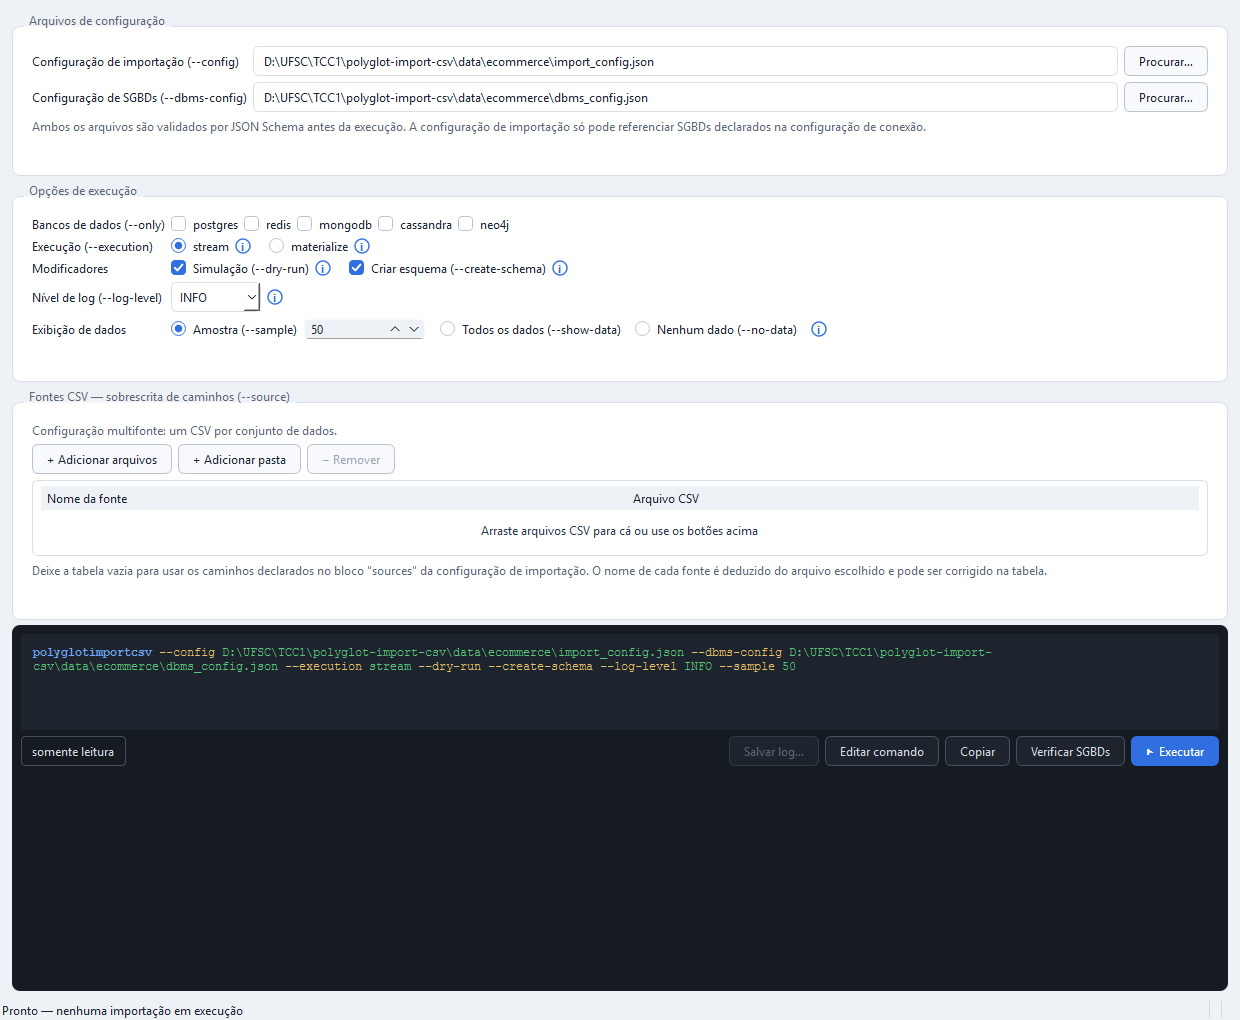
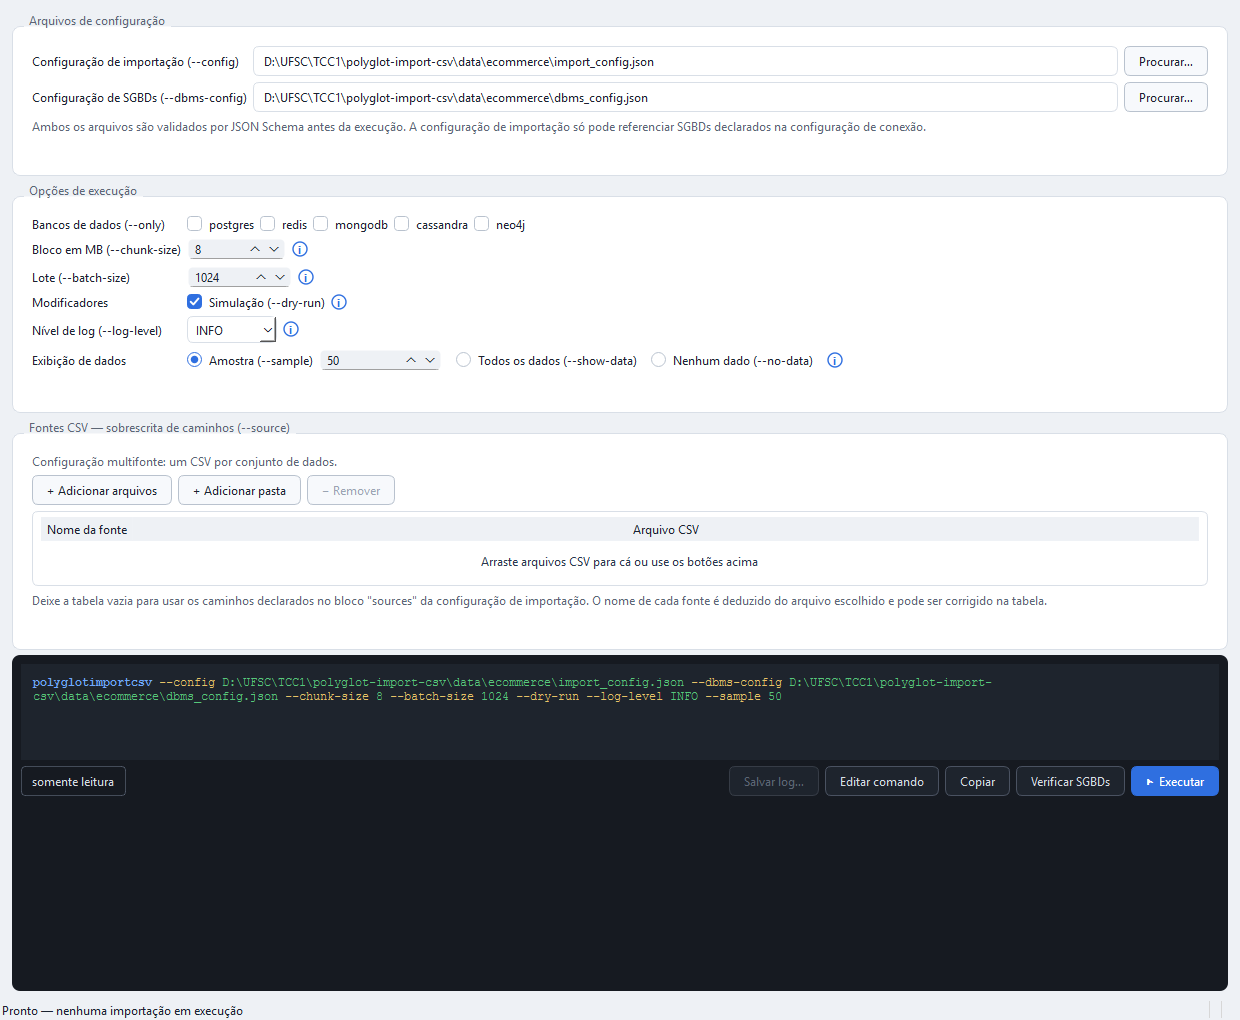
docs(tcc): capturas da GUI da 3.0.0 e dados gravados da 4.3.3 lidos de uma importacao real
As cinco capturas foram refeitas com scripts/capture_gui_figures.py (MongoDB e Neo4j parados para a verificacao): sem as caixas Execucao e Criar esquema, com Bloco e Lote, e a figura do erro com o caminho JSON. Os dados da 4.3.3 sairam de uma importacao real do cenario exemplo, lidos de volta dos cinco SGBDs: tipos nativos no MongoDB, no Redis e no Neo4j e precos com duas casas no PostgreSQL. A tab:check-dbms conferiu com uma execucao real.

diff --git a/docs-tcc/chapters/ch4proposta.tex b/docs-tcc/chapters/ch4proposta.tex
@@ -1166,7 +1166,9 @@ no arquivo de conexão (Listagem~\ref{lst:conexao-exemplo}). As entidades \textt
 \texttt{products} também leem de \texttt{stock}, e a eliminação de duplicatas pela chave
 reduz o resultado aos oito produtos e oito categorias distintos; a entidade
 \texttt{orders} lê da fonte \texttt{purchase} (as oito compras). As chaves estrangeiras
-declaradas em \texttt{relationships} ligam produtos a categorias e pedidos a produtos.
+declaradas em \texttt{relationships} ligam produtos a categorias e pedidos a produtos. Como
+a coluna \texttt{price} é declarada \texttt{NUMERIC(14,2)}, o PostgreSQL guarda os preços com
+duas casas decimais (\texttt{50.50} para o \texttt{50.5} do CSV).
 
 \begin{table}[H]
   \caption{Relação \texttt{inventory} gravada no PostgreSQL a partir da fonte \texttt{stock}.}
@@ -1176,46 +1178,48 @@ declaradas em \texttt{relationships} ligam produtos a categorias e pedidos a pro
     \toprule
     \texttt{product\_id} & \texttt{quantity\_available} & \texttt{last\_restock\_date} & \texttt{price} \\
     \midrule
-    2 &  2 & 02/11/2023 03:30 & 50.5 \\
+    2 &  2 & 02/11/2023 03:30 & 50.50 \\
     3 &  1 & 02/11/2023 06:45 & 52.07 \\
     9 & 67 & 02/11/2023 09:15 & 32.78 \\
     8 & 60 & 02/11/2023 12:00 & 46.79 \\
     4 & 82 & 02/11/2023 14:30 & 55.94 \\
     5 & 57 & 02/11/2023 17:15 & 34.21 \\
     6 & 64 & 02/11/2023 20:00 & 51.98 \\
-    7 &  1 & 02/11/2023 22:30 & 100000 \\
+    7 &  1 & 02/11/2023 22:30 & 100000.00 \\
     \bottomrule
   \end{tabular}
   \par\vspace{4pt}
-  {\footnotesize Fonte: Elaborado pelo autor (2026).}
+  {\footnotesize Fonte: Elaborado pelo autor (2026), a partir da tabela gravada.}
 \end{table}
 
 \textbf{MongoDB.} A entidade \texttt{product\_catalog}
 (Listagem~\ref{lst:mongo-import}) também lê da fonte \texttt{stock}, mas grava cada
 linha como um documento cuja hierarquia reproduz o aninhamento declarado em
 \texttt{columns}. A Listagem~\ref{lst:mongo-doc} mostra o documento gerado a partir da
-primeira linha de estoque. Os valores preservam a forma textual lida do CSV, coerente com
-a política de carregamento descrita no início desta seção; os subdocumentos
+primeira linha de estoque, tal como lido do MongoDB depois da importação, com a data na
+notação do terminal do MongoDB. Os valores são gravados com os tipos fixados pela leitura de
+inferência: números como números e a data como data, e não como o texto lido do CSV; os
+subdocumentos
 \texttt{category} e \texttt{stock} agrupam, sem repetição de linhas, o que no PostgreSQL
 ficou distribuído em três tabelas ligadas por chaves estrangeiras --- a representação
 desnormalizada característica do modelo de documentos.
 
 \begin{lstlisting}[style=jsonstyle,caption={Documento gerado na coleção \texttt{product\_catalog} para a primeira linha de estoque.},label={lst:mongo-doc}]
 {
-  "product_id": "2",
+  "product_id": 2,
   "product_name": "Product2",
   "product_variant": "blue",
   "product_brand": "Microsoft",
   "product_description": "Description1",
   "product_image": "https://example.com/image1.jpg",
-  "price": "50.5",
+  "price": 50.5,
   "category": {
-    "category_id": "2",
+    "category_id": 2,
     "category_name": "Categoria2"
   },
   "stock": {
-    "quantity_available": "2",
-    "last_restock_date": "2023-11-02 03:30:00Z"
+    "quantity_available": 2,
+    "last_restock_date": ISODate("2023-11-02T03:30:00Z")
   }
 }
 \end{lstlisting}
@@ -1265,13 +1269,13 @@ valor reúne todas as demais colunas da fonte \texttt{add\_to\_cart}; já
 
 \begin{lstlisting}[style=textstyle,caption={Pares chave-valor gerados no Redis a partir dos eventos de \texttt{user1}.},label={lst:redis-pares}]
 chave: user:7fd7eee7-4675-4f56-ad81-108da6cecebc:cart
-valor: {"timestamp": "2023-11-15 15:17:30Z", "user_id": "7fd7...",
+valor: {"timestamp": "2023-11-15 15:17:30+00:00", "user_id": "7fd7...",
         "user_name": "user1", "user_email": "user1@example.com",
-        "cart_product_id": "3", "cart_quantity": "1"}
+        "cart_product_id": 3, "cart_quantity": 1}
 
 chave: 7fd7eee7-4675-4f56-ad81-108da6cecebc
 valor: {"user_name": "user1", "user_email": "user1@example.com",
-        "last_seen": "2023-11-15 15:09:30Z"}
+        "last_seen": "2023-11-15 15:09:30+00:00"}
 \end{lstlisting}
 
 \textbf{Neo4j.} As entidades e a aresta da Listagem~\ref{lst:neo4j-import} produzem um
@@ -1286,9 +1290,9 @@ fragmento do grafo derivado da primeira compra (\texttt{ORD1}).
 \begin{lstlisting}[style=textstyle,caption={Fragmento do grafo gravado no Neo4j para o pedido \texttt{ORD1}.},label={lst:neo4j-grafo}]
 (:User {user_id: "7fd7eee7-...", user_name: "user1",
         user_email: "user1@example.com"})
-    -[:PURCHASED {order_number: "ORD1", quantity: "1",
-                  price: "50.5", rating: "2"}]->
-(:Product {product_id: "2", product_name: "Product2",
+    -[:PURCHASED {order_number: "ORD1", quantity: 1,
+                  price: 50.5, rating: 2}]->
+(:Product {product_id: 2, product_name: "Product2",
            product_brand: "Microsoft"})
 \end{lstlisting}
 
